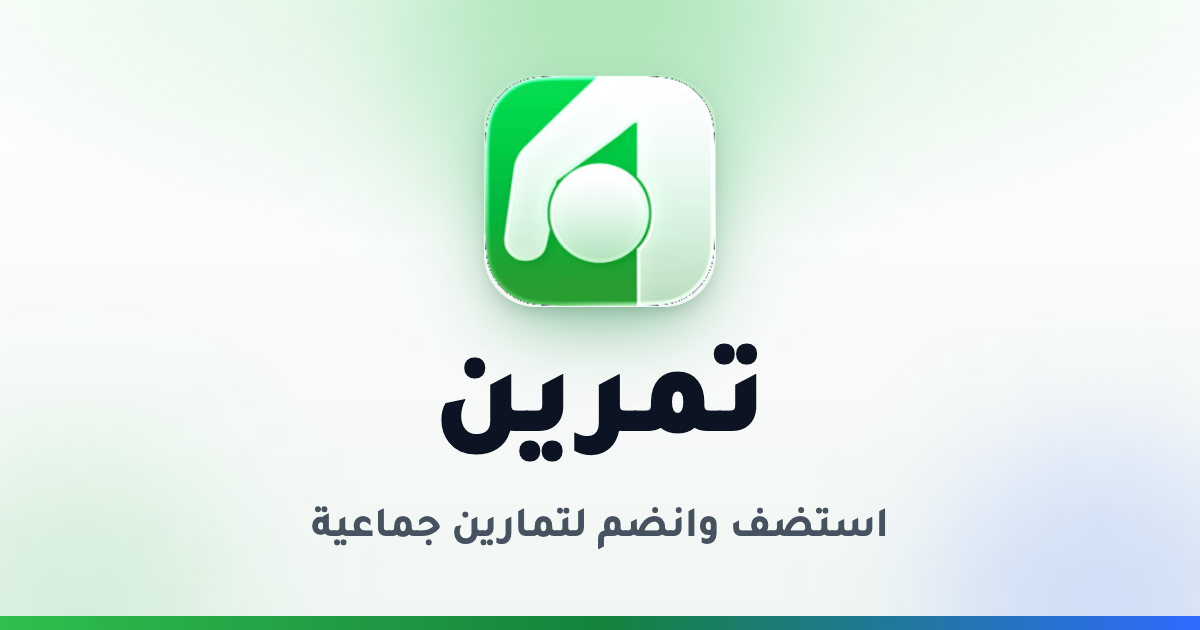
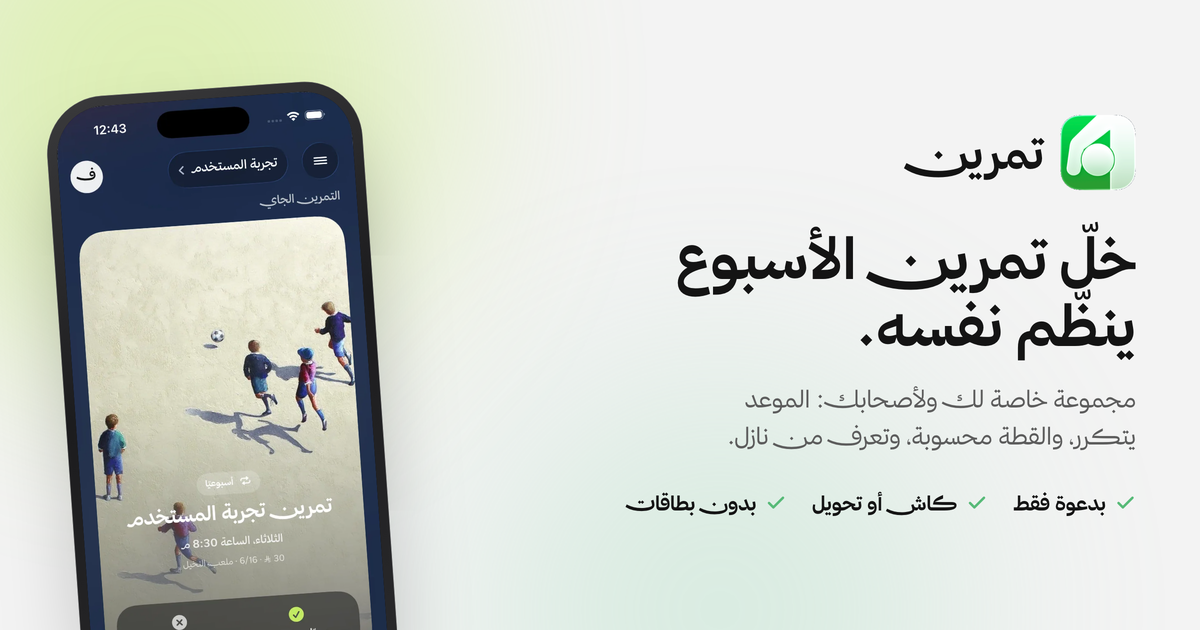
Redraw the share image on the current identity
The old og-image.png still carried the pre-rebuild look: the green/blue
gradient, a non-Thmanyah typeface, and "استضف وانضم لتمارين جماعية" —
messaging the site no longer makes.

The replacement is rendered from tools/og-template.html by headless
Chrome (tools/build-og.py) rather than drawn in an image library, so it
inherits the real thing: Thmanyah Sans with ss01/swsh, correct Arabic
shaping, the lime/mint aurora from the hero, and the actual home
screenshot in the phone. Regenerating after a copy change is one command.

Shot at 2x and downsampled for cleaner edges. og:image bumped to ?v=3
across the pages and og:image:alt now describes what the image shows.

Two RTL traps worth remembering, both hit while building it:
inset-inline-start is the *right* edge, and margin-inline-start:auto
pushes a flex item left. Both are physical coordinates now, with a note.

diff --git a/tools/og-template.html b/tools/og-template.html
@@ -1,0 +1,129 @@
+<!DOCTYPE html>
+<!-- ============================================================
+     قالب صورة المشاركة (Open Graph) — 1200×630
+     يُصوَّر برأسٍ مخفي إلى assets/og-image.png عبر:
+         python3 tools/build-og.py
+     يستخدم نفس الرموز والخط الموجودة في الموقع، فلا تتفرّع الهوية.
+     ============================================================ -->
+<html lang="ar" dir="rtl">
+<head>
+  <meta charset="UTF-8" />
+  <title>og-template</title>
+  <link rel="stylesheet" href="/assets/fonts.css" />
+  <style>
+    :root {
+      --lime: #c2eb64;
+      --mint: #9edbb8;
+      --green: #57ba78;
+      --ink: #141414;
+      --page: #f3f3f3;
+      --text-2: #5c5c5c;
+    }
+    * { box-sizing: border-box; margin: 0; padding: 0; }
+
+    html, body { width: 1200px; height: 630px; overflow: hidden; }
+
+    body {
+      background: var(--page);
+      color: var(--ink);
+      font-family: 'Thmanyah Sans', system-ui, sans-serif;
+      font-kerning: normal;
+      font-variant-ligatures: common-ligatures contextual;
+      font-feature-settings: 'kern' 1, 'liga' 1, 'calt' 1, 'rlig' 1, 'ss01' 1, 'swsh' 1;
+      -webkit-font-smoothing: antialiased;
+      position: relative;
+      display: flex;
+      align-items: center;
+    }
+
+    /* الوهج نفسه المستخدم في الهيرو (AuroraBackdrop) */
+    body::before, body::after { content: ''; position: absolute; border-radius: 50%; }
+    body::before {
+      inset-block-start: -190px; inset-inline-end: -120px;
+      width: 560px; height: 560px;
+      background: var(--lime); opacity: .42; filter: blur(105px);
+    }
+    body::after {
+      inset-block-end: -220px; inset-inline-start: 240px;
+      width: 480px; height: 480px;
+      background: var(--mint); opacity: .3; filter: blur(110px);
+    }
+
+    /* العمود النصّي هو العنصر الوحيد في تدفّق الـflex، فيستقرّ عند بداية
+       السطر — أي الحافة اليمنى في RTL — بلا هوامش تلقائية. */
+    .copy {
+      position: relative; z-index: 2;
+      padding-inline-start: 64px;     /* في RTL: مسافة من الحافة اليمنى */
+      width: 700px; flex: none;
+    }
+
+    .brand { display: flex; align-items: center; gap: 16px; margin-bottom: 34px; }
+    .brand img { width: 76px; height: 76px; border-radius: 22.37%; }  /* نسبة أيقونة iOS */
+    .brand span { font-size: 44px; font-weight: 700; letter-spacing: -.01em; }
+
+    h1 {
+      font-size: 57px; font-weight: 700; line-height: 1.17;
+      letter-spacing: -.015em; text-wrap: balance;
+    }
+
+    p.sub {
+      margin-top: 22px; font-size: 24px; line-height: 1.55;
+      color: var(--text-2); max-width: 27ch; text-wrap: balance;
+    }
+
+    ul {
+      display: flex; gap: 26px; margin-top: 36px;
+      list-style: none; font-size: 20px; font-weight: 700; color: var(--ink);
+    }
+    li { display: flex; align-items: center; gap: 9px; }
+    li svg { width: 21px; height: 21px; color: var(--green); }
+
+    /* الجهاز مقصوص من الحافة السفلية، بلقطة حقيقية من التطبيق.
+       إحداثيات فيزيائية عمدًا: inset-inline-start في RTL هو الحافة اليمنى. */
+    .shot {
+      position: absolute; z-index: 1;
+      left: 66px; top: 88px;
+      width: 316px; padding: 10px;
+      border-radius: 58px;
+      background: linear-gradient(160deg, #3a3a3c, #1c1c1e 42%, #2c2c2e);
+      box-shadow: 0 44px 90px -30px rgba(0, 0, 0, .5), inset 0 0 0 .5px rgba(255, 255, 255, .22);
+      transform: rotate(-4deg);
+    }
+    .shot .screen {
+      border-radius: 49px; overflow: hidden; background: #0f0f0f;
+      aspect-ratio: 1206 / 2622;
+    }
+    .shot img { display: block; width: 100%; height: 100%; object-fit: cover; }
+  </style>
+</head>
+<body>
+  <div class="copy">
+    <div class="brand">
+      <img src="/assets/tamrin-icon.png" alt="" />
+      <span>تمرين</span>
+    </div>
+
+    <h1>خلّ تمرين الأسبوع ينظّم نفسه.</h1>
+    <p class="sub">مجموعة خاصة لك ولأصحابك: الموعد يتكرر، والقطة محسوبة، وتعرف من نازل.</p>
+
+    <ul>
+      <li>
+        <svg viewBox="0 0 24 24" fill="none" stroke="currentColor" stroke-width="2.8" stroke-linecap="round" stroke-linejoin="round"><path d="m20 6-11 11-5-5"/></svg>
+        بدعوة فقط
+      </li>
+      <li>
+        <svg viewBox="0 0 24 24" fill="none" stroke="currentColor" stroke-width="2.8" stroke-linecap="round" stroke-linejoin="round"><path d="m20 6-11 11-5-5"/></svg>
+        كاش أو تحويل
+      </li>
+      <li>
+        <svg viewBox="0 0 24 24" fill="none" stroke="currentColor" stroke-width="2.8" stroke-linecap="round" stroke-linejoin="round"><path d="m20 6-11 11-5-5"/></svg>
+        بدون بطاقات
+      </li>
+    </ul>
+  </div>
+
+  <div class="shot">
+    <div class="screen"><img src="/assets/app/home.webp" alt="" /></div>
+  </div>
+</body>
+</html>

diff --git a/index.html b/index.html
@@ -17,18 +17,18 @@
   <meta property="og:title" content="تمرين — خلّ تمرين الأسبوع ينظّم نفسه" />
   <meta property="og:description" content="مجموعة خاصة لك ولأصحابك: موعد يتكرر تلقائيًا، قطة محسوبة، وتعرف من نازل قبل ما تحجز." />
   <meta property="og:url" content="https://guileless-squirrel-b6537a.netlify.app/" />
-  <meta property="og:image" content="https://guileless-squirrel-b6537a.netlify.app/assets/og-image.png?v=2" />
-  <meta property="og:image:secure_url" content="https://guileless-squirrel-b6537a.netlify.app/assets/og-image.png?v=2" />
+  <meta property="og:image" content="https://guileless-squirrel-b6537a.netlify.app/assets/og-image.png?v=3" />
+  <meta property="og:image:secure_url" content="https://guileless-squirrel-b6537a.netlify.app/assets/og-image.png?v=3" />
   <meta property="og:image:type" content="image/png" />
   <meta property="og:image:width" content="1200" />
   <meta property="og:image:height" content="630" />
-  <meta property="og:image:alt" content="تطبيق تمرين — تمارين المجموعة بدون فوضى الجروب" />
+  <meta property="og:image:alt" content="تمرين — خلّ تمرين الأسبوع ينظّم نفسه: مجموعة خاصة لك ولأصحابك، بدعوة فقط، كاش أو تحويل، بدون بطاقات." />
 
   <!-- Twitter / X card -->
   <meta name="twitter:card" content="summary_large_image" />
   <meta name="twitter:title" content="تمرين — خلّ تمرين الأسبوع ينظّم نفسه" />
   <meta name="twitter:description" content="مجموعة خاصة لك ولأصحابك: موعد يتكرر تلقائيًا وقطة محسوبة." />
-  <meta name="twitter:image" content="https://guileless-squirrel-b6537a.netlify.app/assets/og-image.png?v=2" />
+  <meta name="twitter:image" content="https://guileless-squirrel-b6537a.netlify.app/assets/og-image.png?v=3" />
   <meta name="twitter:image:alt" content="تطبيق تمرين" />
 
   <!-- خط ثمانية سانس مضمّن base64 — يُحمّل بدون حجب الرسم -->

diff --git a/404.html b/404.html
@@ -14,18 +14,18 @@
   <meta property="og:title" content="تمرين — افتح التمرين في التطبيق" />
   <meta property="og:description" content="افتح هذا التمرين في تطبيق تمرين وانضم إليه." />
   <meta property="og:url" content="https://guileless-squirrel-b6537a.netlify.app/" />
-  <meta property="og:image" content="https://guileless-squirrel-b6537a.netlify.app/assets/og-image.png?v=2" />
-  <meta property="og:image:secure_url" content="https://guileless-squirrel-b6537a.netlify.app/assets/og-image.png?v=2" />
+  <meta property="og:image" content="https://guileless-squirrel-b6537a.netlify.app/assets/og-image.png?v=3" />
+  <meta property="og:image:secure_url" content="https://guileless-squirrel-b6537a.netlify.app/assets/og-image.png?v=3" />
   <meta property="og:image:type" content="image/png" />
   <meta property="og:image:width" content="1200" />
   <meta property="og:image:height" content="630" />
-  <meta property="og:image:alt" content="تطبيق تمرين — تمارين المجموعة بدون فوضى الجروب" />
+  <meta property="og:image:alt" content="تمرين — خلّ تمرين الأسبوع ينظّم نفسه: مجموعة خاصة لك ولأصحابك، بدعوة فقط، كاش أو تحويل، بدون بطاقات." />
 
   <!-- Twitter / X card -->
   <meta name="twitter:card" content="summary_large_image" />
   <meta name="twitter:title" content="تمرين — افتح التمرين في التطبيق" />
   <meta name="twitter:description" content="افتح هذا التمرين في تطبيق تمرين وانضم إليه." />
-  <meta name="twitter:image" content="https://guileless-squirrel-b6537a.netlify.app/assets/og-image.png?v=2" />
+  <meta name="twitter:image" content="https://guileless-squirrel-b6537a.netlify.app/assets/og-image.png?v=3" />
 
   <link rel="preload" href="/assets/fonts.css?v=2" as="style" onload="this.onload=null;this.rel='stylesheet'" />
   <noscript><link rel="stylesheet" href="/assets/fonts.css?v=2" /></noscript>

diff --git a/preview-share.html b/preview-share.html
@@ -193,10 +193,10 @@
 const FALLBACK = {
   title: 'تمرين — افتح التمرين في التطبيق',
   description: 'افتح هذا التمرين في تطبيق تمرين وانضم إليه.',
-  image: 'assets/og-image.png?v=2',
+  image: 'assets/og-image.png?v=3',
   url: 'https://guileless-squirrel-b6537a.netlify.app/',
   site_name: 'تمرين',
-  'image:alt': 'تطبيق تمرين — تمارين المجموعة بدون فوضى الجروب',
+  'image:alt': 'تمرين — خلّ تمرين الأسبوع ينظّم نفسه: مجموعة خاصة لك ولأصحابك، بدعوة فقط، كاش أو تحويل، بدون بطاقات.',
   'image:width': '1200',
   'image:height': '630',
   'twitter:card': 'summary_large_image',

diff --git a/tools/build-og.py b/tools/build-og.py
@@ -1,0 +1,90 @@
+#!/usr/bin/env python3
+"""يصوّر tools/og-template.html إلى assets/og-image.png بمقاس 1200×630.
+
+يُستخدم Chrome برأسٍ مخفي لأن القالب يعتمد على خط ثمانية سانس وخصائصه
+(ss01/swsh) وعلى تشكيل النص العربي — وكلها لا تتوفّر في مكتبات الرسم.
+يُصوَّر بضعف الكثافة ثم يُصغَّر، فتخرج الحواف والنص أنعم.
+
+التشغيل (يحتاج خادمًا محليًا لأن القالب يستعمل مسارات مطلقة):
+    python3 -m http.server 4173 &
+    python3 tools/build-og.py
+"""
+
+import pathlib
+import shutil
+import subprocess
+import sys
+import tempfile
+import urllib.request
+
+ROOT = pathlib.Path(__file__).resolve().parent.parent
+OUT = ROOT / "assets/og-image.png"
+URL = "http://localhost:4173/tools/og-template.html"
+CHROME = "/Applications/Google Chrome.app/Contents/MacOS/Google Chrome"
+
+WIDTH, HEIGHT = 1200, 630
+SCALE = 2  # يُصوَّر 2400×1260 ثم يُصغَّر
+
+
+def server_is_up() -> bool:
+    try:
+        urllib.request.urlopen(URL, timeout=3).read(1)
+        return True
+    except Exception:
+        return False
+
+
+def main() -> int:
+    if not pathlib.Path(CHROME).exists():
+        print(f"لم أجد Chrome في {CHROME}", file=sys.stderr)
+        return 1
+
+    if not server_is_up():
+        print(
+            "الخادم المحلي لا يستجيب على المنفذ 4173.\n"
+            "شغّله أولًا من جذر المشروع:  python3 -m http.server 4173",
+            file=sys.stderr,
+        )
+        return 1
+
+    with tempfile.TemporaryDirectory() as tmp:
+        raw = pathlib.Path(tmp) / "og-raw.png"
+        cmd = [
+            CHROME,
+            "--headless",
+            "--disable-gpu",
+            "--hide-scrollbars",
+            "--force-device-scale-factor=%d" % SCALE,
+            "--window-size=%d,%d" % (WIDTH, HEIGHT),
+            "--screenshot=%s" % raw,
+            # مهلة تكفي لتحميل الخط المضمّن قبل التصوير
+            "--virtual-time-budget=6000",
+            "--user-data-dir=%s" % (pathlib.Path(tmp) / "profile"),
+            URL,
+        ]
+        subprocess.run(cmd, check=True, capture_output=True)
+
+        if not raw.exists():
+            print("لم يُنتج Chrome أي صورة", file=sys.stderr)
+            return 1
+
+        try:
+            from PIL import Image
+        except ImportError:
+            shutil.copy(raw, OUT)
+            print(f"كُتب {OUT} (بدون تصغير — Pillow غير مثبّت)")
+            return 0
+
+        im = Image.open(raw).convert("RGB")
+        if im.size != (WIDTH, HEIGHT):
+            im = im.resize((WIDTH, HEIGHT), Image.LANCZOS)
+        im.save(OUT, "PNG", optimize=True)
+
+    kb = OUT.stat().st_size / 1024
+    print(f"كُتب {OUT}  {WIDTH}×{HEIGHT}  {kb:.0f} KB")
+    print("لا تنسَ رفع رقم ?v= في وسوم og:image بالصفحات الثلاث.")
+    return 0
+
+
+if __name__ == "__main__":
+    raise SystemExit(main())
